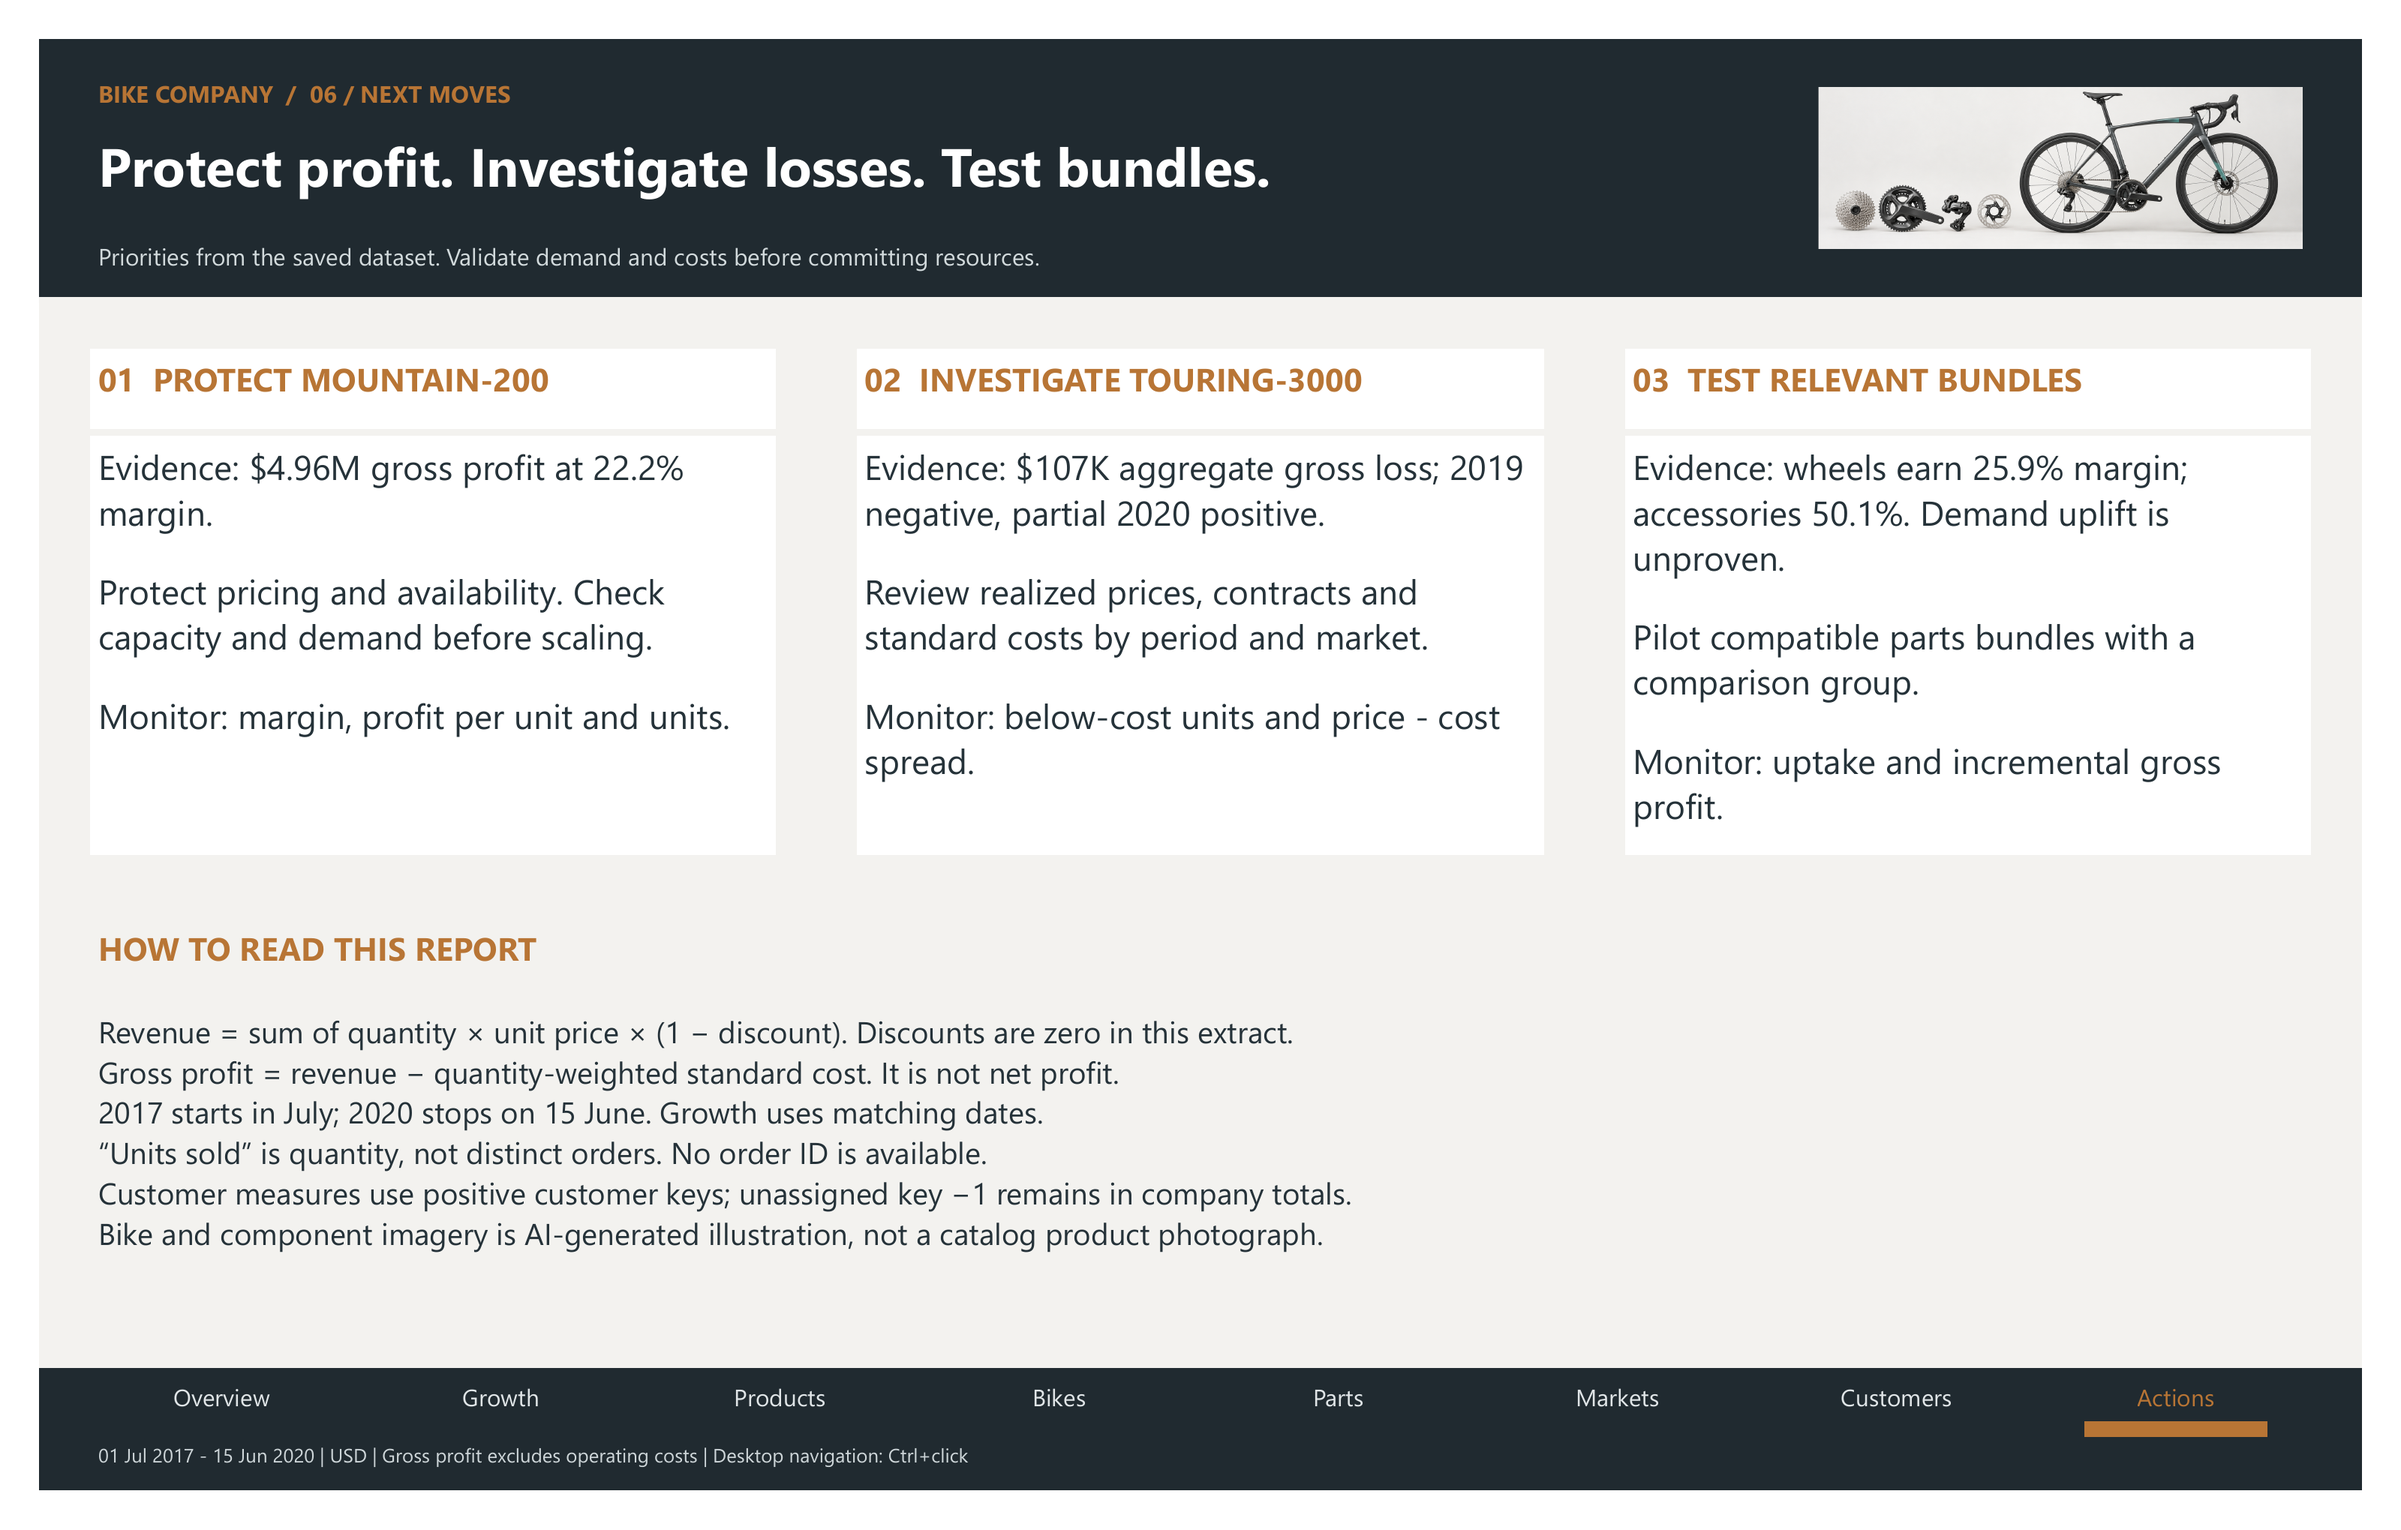
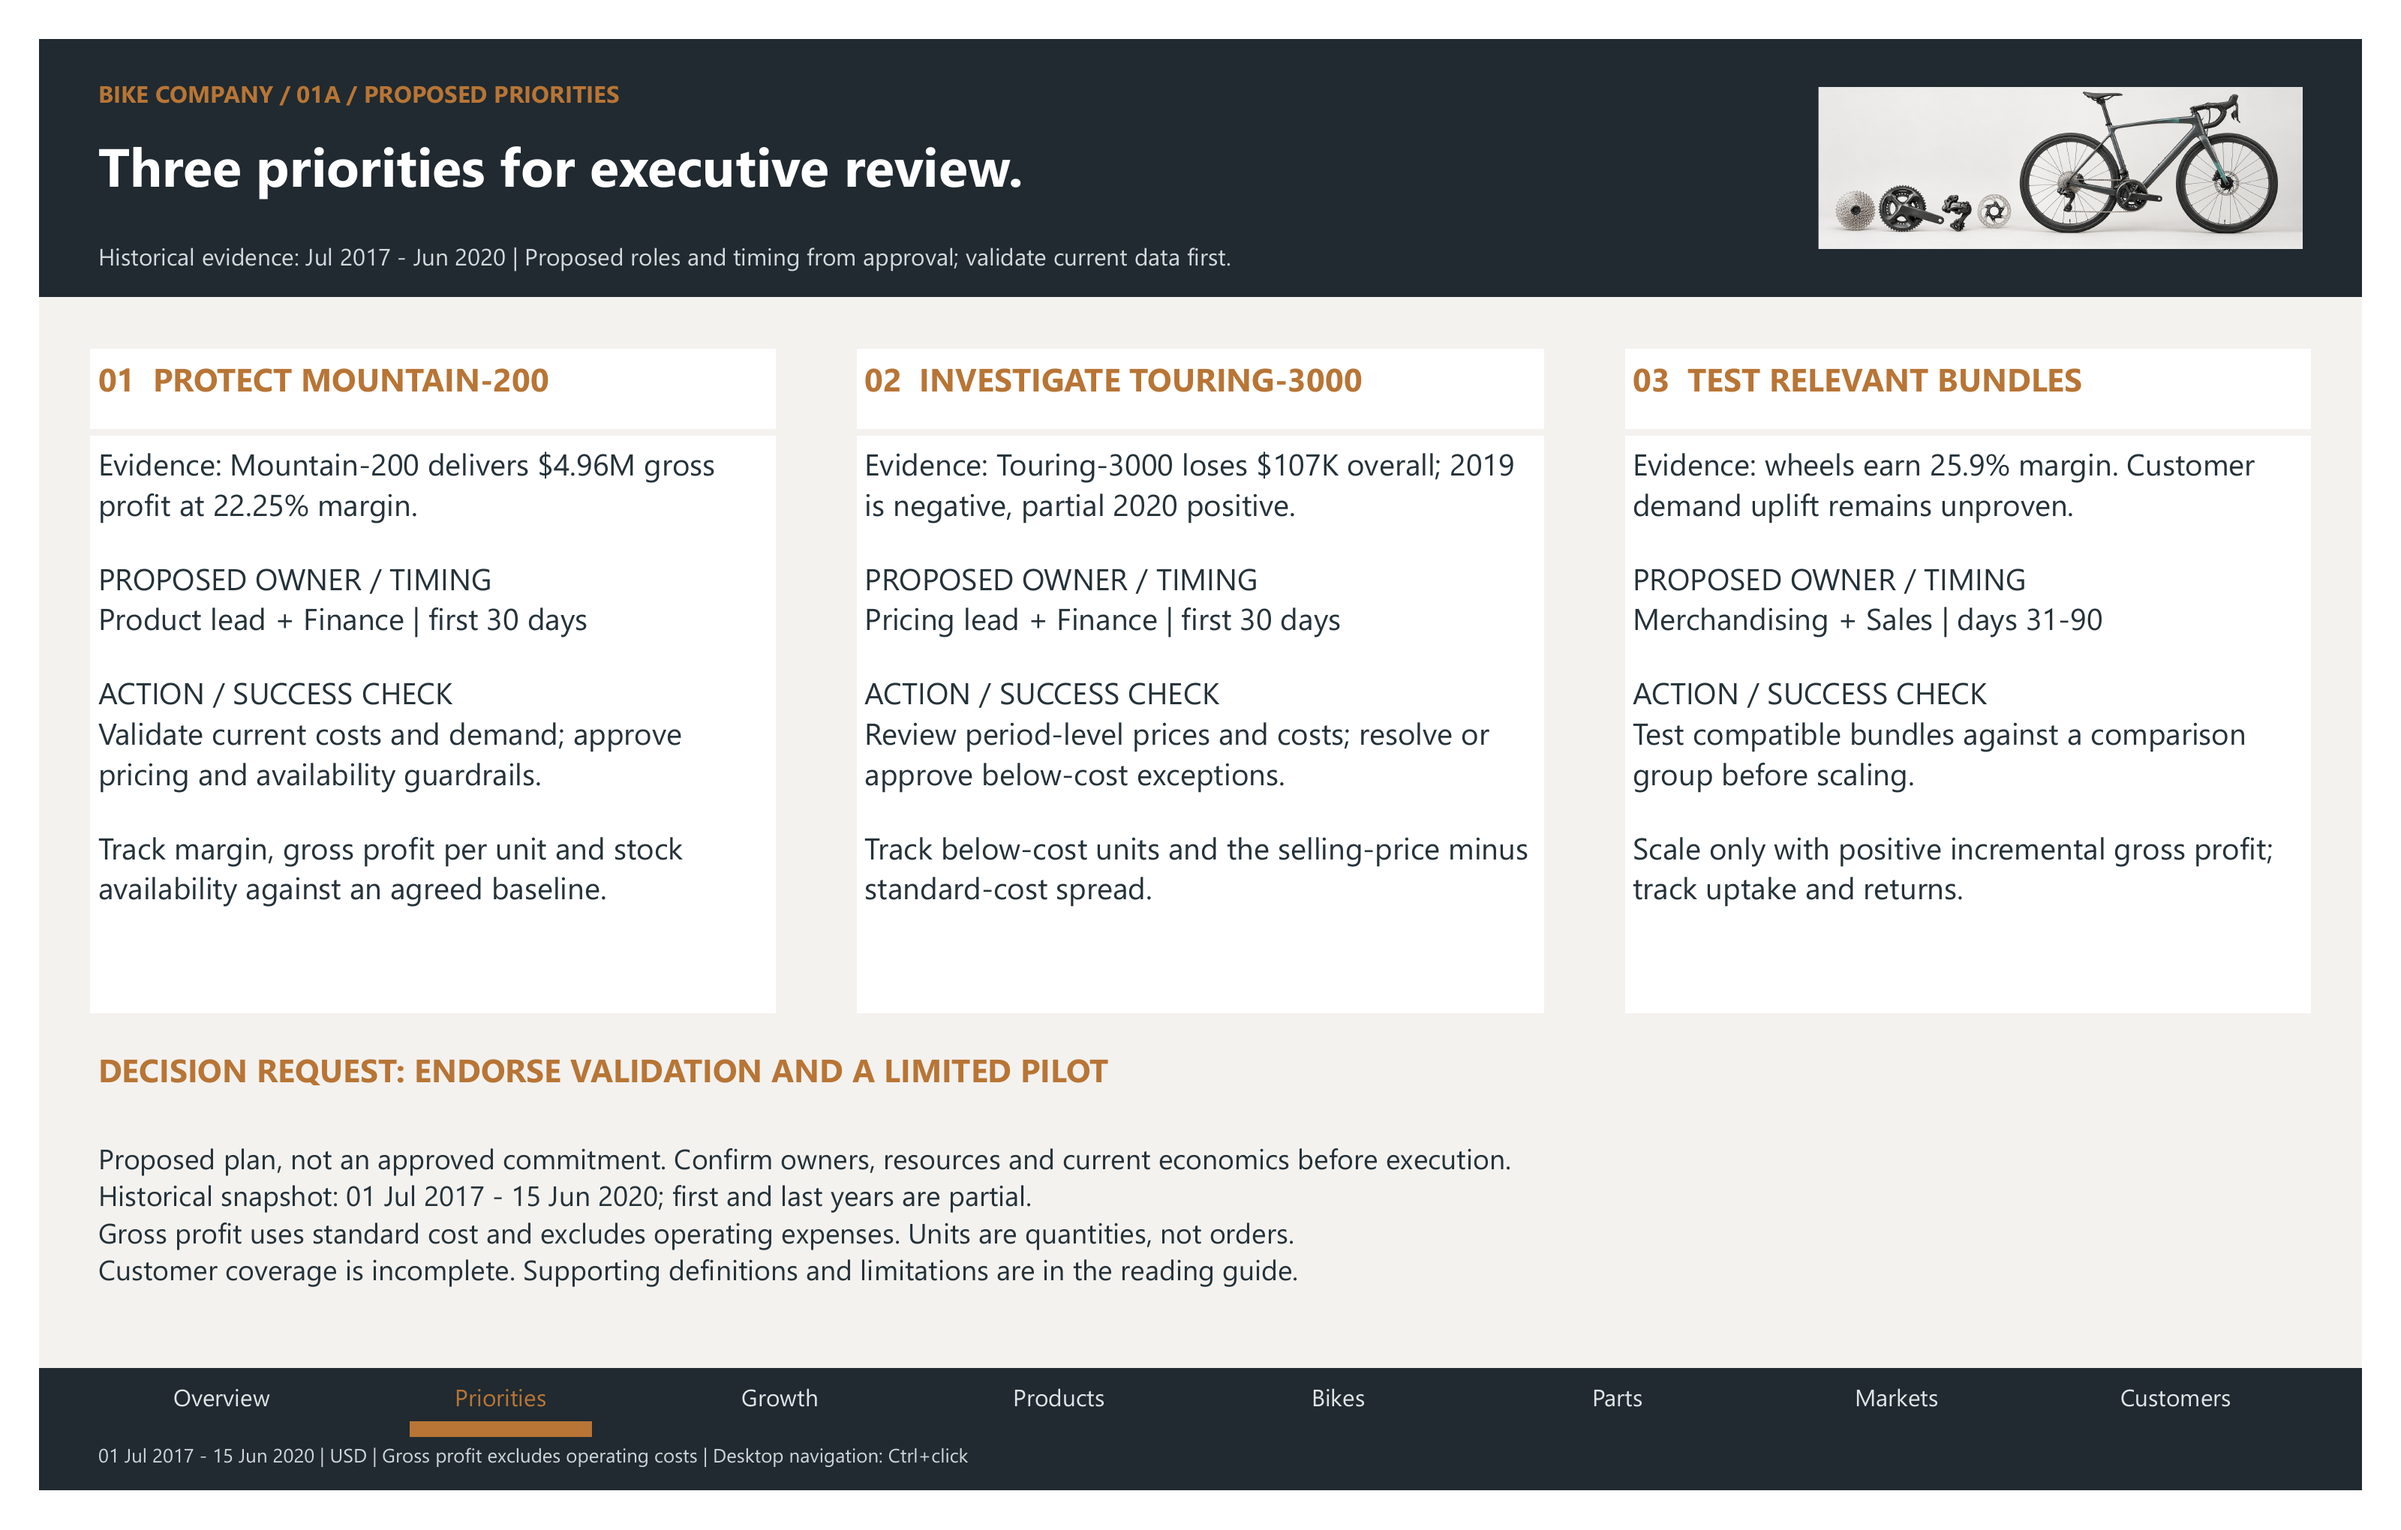
Update executive report pages and reading guide

diff --git a/docs/READING-GUIDE.md b/docs/READING-GUIDE.md
@@ -1,6 +1,6 @@
 # Reading the Bike Company report
 
-Open **Bike Company.pbix**. The nine-page report connects overall performance, growth, product economics, markets and customer coverage. Use the bottom navigation to follow the story; Ctrl+click in Desktop edit mode.
+Open **Bike Company.pbix**. The nine-page report opens with performance and proposed priorities, then presents growth, product economics, markets and customer coverage. Historical analysis covers July 2017-June 2020 and does not describe current trading. The Priorities page proposes owners, timing from approval and success measures; validate current data before executing. Use the bottom navigation to follow the story; Ctrl+click in Desktop edit mode.
 
 ## What the comparison shows
 

diff --git a/docs/README.md b/docs/README.md
@@ -1,3 +1,5 @@
-# Report screenshots and guide
+# Report pages and guide
 
-Nine screenshots follow the finished Power BI report in page order. Read the [project story](../README.md) for page explanations and key findings, or the [reading guide](READING-GUIDE.md) for metric definitions and exploration notes.
+Presentation order: Overview, Priorities, Growth, Products, Bike comparison, Components, Product detail, Markets, Customers. Image filenames are kept stable so existing links continue to work.
+
+Read the [project story](../README.md) for page explanations and key findings, or the [reading guide](READING-GUIDE.md) for metric definitions and exploration notes.
